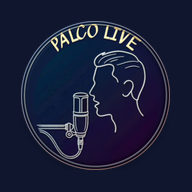
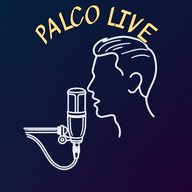
Ícone do lançador maior e nítido (maskable tela cheia)
Claude-Session: https://claude.ai/code/session_01X5774HYmM1oX7DoUMbAUKf

Changed region(s): [[0.0938, 0.0, 0.9062, 0.9062]]

diff --git a/sw.js b/sw.js
@@ -1,4 +1,4 @@
-const V='palco-v20';
+const V='palco-v21';
 const FILES=['./','index.html','pdf.min.js','pdf.worker.min.js','manifest.webmanifest','icon-192.png','icon-512.png','icon-192-maskable.png','icon-512-maskable.png'];
 self.addEventListener('install',e=>{ e.waitUntil(caches.open(V).then(c=>Promise.all(FILES.map(f=>fetch(f,{cache:'reload'}).then(r=>r.ok?c.put(f,r):0)))).then(()=>self.skipWaiting())); });
 self.addEventListener('activate',e=>{ e.waitUntil(caches.keys().then(ks=>Promise.all(ks.filter(k=>k!==V).map(k=>caches.delete(k)))).then(()=>self.clients.claim())); });
